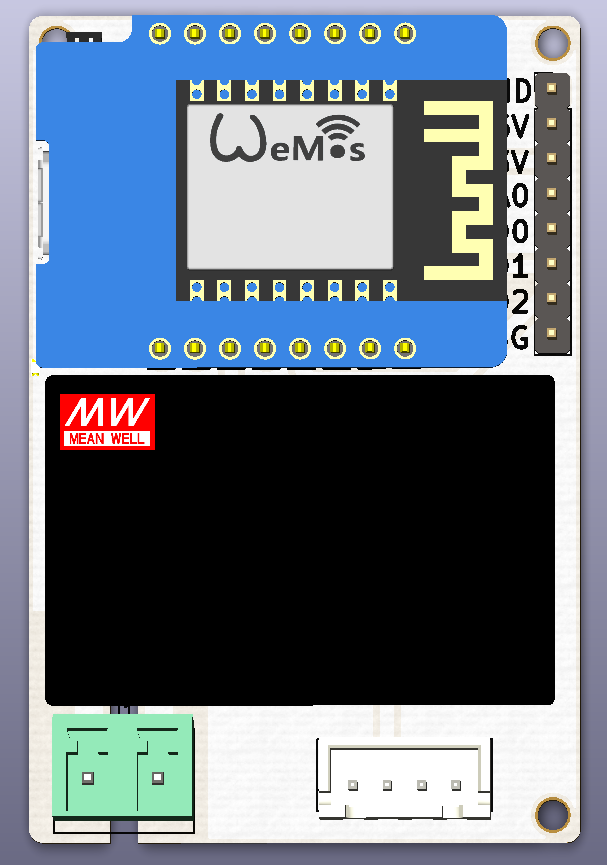
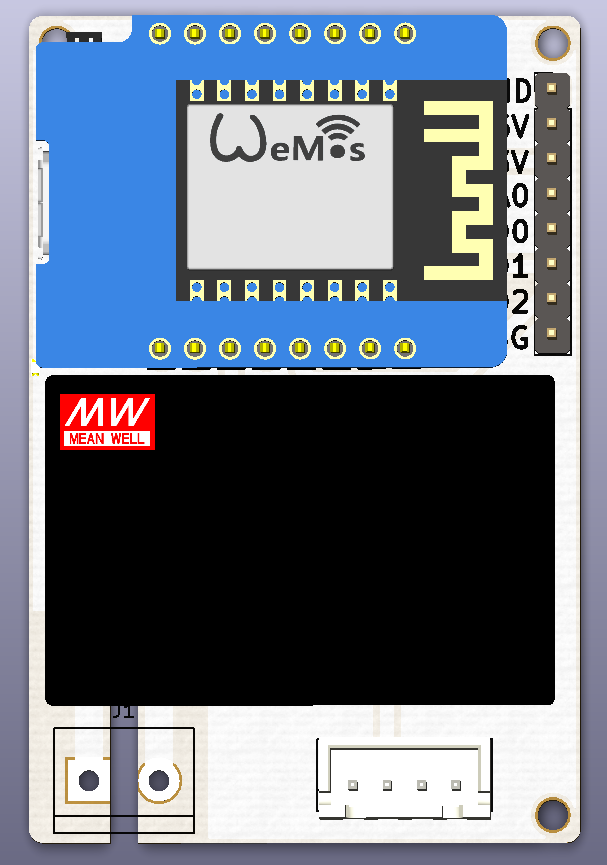
Documentation

Changed region(s): [[0.0593, 0.8116, 0.3262, 0.9676]]

diff --git a/Documentation/03_Electronics_Assembly.md b/Documentation/03_Electronics_Assembly.md
@@ -5,7 +5,6 @@
 * [85-305VAC to 5VDC power supply](https://www.arrow.com/en/products/irm-03-5/mean-well-enterprises)
 * [Nextion 2.4" LCD touchscreen display](https://www.itead.cc/nextion-nx3224t024.html)
 * [WeMos D1 Mini ESP8266 WiFi microcontroller](https://wiki.wemos.cc/products:d1:d1_mini)
-* [5.08mm pitch screw terminal connectors](https://www.amazon.com/gp/product/B011QFLS0S)
 * [4-pin male "JST-XH" header](https://www.aliexpress.com/wholesale?SearchText=jst+xh+2.54+male+4+pin) *(note that these are the knockoff 2.54mm versions of the 2.50 XH series from JST.  What they lack for in authenticity they make up for in ubiquiti and dirt cheap pricing)*
 * [PCB](../PCB)
 
@@ -19,9 +18,9 @@ This is what your PCB should look like from the top before you've placed any of 
 
 ## PCB Assembled
 
-Now place the components, taking care to align the WeMos D1 Mini and JST-XH header as shown in the image below.
+Now place the components, taking care to orient the WeMos D1 Mini and JST-XH header as shown in the image below.
 
-![PCB Unassembled](https://github.com/aderusha/HASwitchPlate/blob/master/Documentation/Images/HASP_PCB_Front_Assembled.png?raw=true)
+![PCB Assembled](https://github.com/aderusha/HASwitchPlate/blob/master/Documentation/Images/HASP_PCB_Front_Assembled.png?raw=true)
 
 ## Schematic for protoboard assembly
 

diff --git a/Documentation/04_Project_Enclosure.md b/Documentation/04_Project_Enclosure.md
@@ -12,7 +12,7 @@ The AC power cables should be at least 18AWG 300V stranded cable with a white ja
 
 ### Heat-set inserts
 
-To hold the two halves on the enclosure together I've used [four 20mm M2 flat-head screws](https://www.amazon.com/gp/product/B000FN3Q94) through the rear of the enclosure into a set of four [3mm M2 heat-set threaded inserts](https://www.amazon.com/gp/product/B01IZ157KS).  For installation I'm using a conical tip on my soldering iron set at 350°F to heat up the insert and press into the front plate.
+To hold the two halves on the enclosure together I've used [four 20mm M2 flat-head screws](https://www.amazon.com/gp/product/B000FN3Q94) through the rear of the enclosure into a set of [four 3mm M2 heat-set threaded inserts](https://www.amazon.com/gp/product/B01IZ157KS).  For installation I'm using a conical tip on my soldering iron set at 350°F to heat up the insert and press into the front plate.
 
 ![Installing threaded inserts](https://github.com/aderusha/HASwitchPlate/blob/master/Documentation/Images/Assembly_Installing_Inserts.jpg?raw=true)
 
